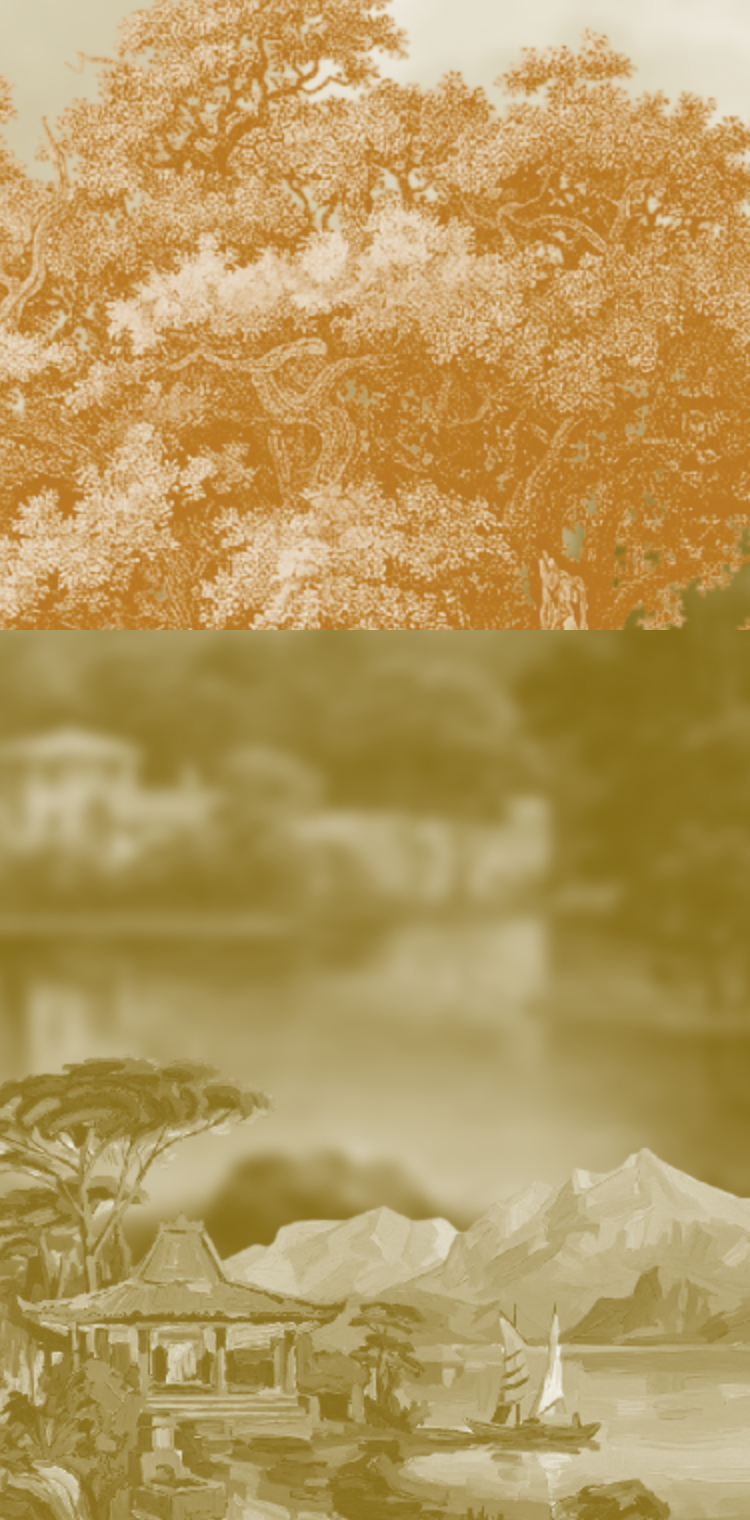
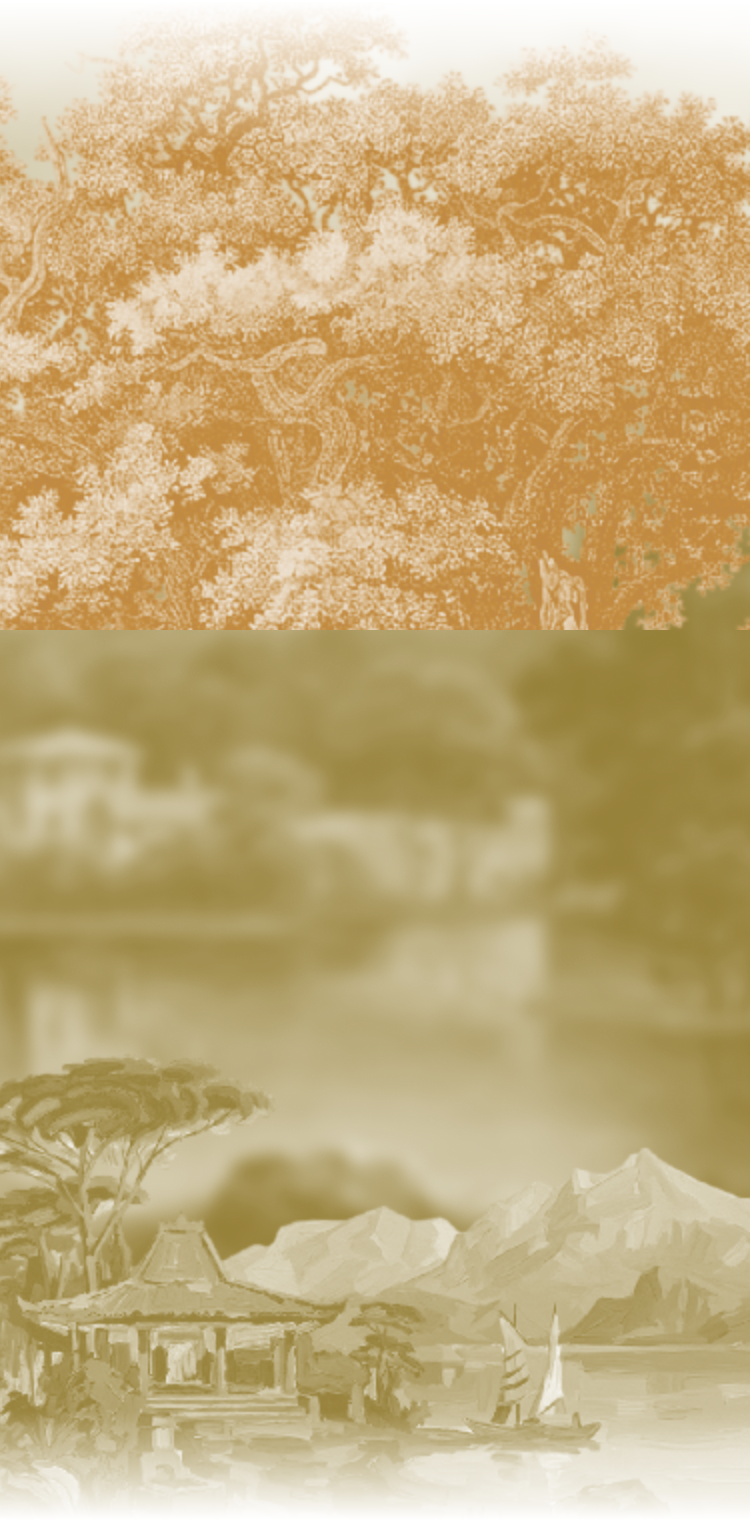
fix: merge bride floral wreath into one layer; feather save-date bg edges

diff --git a/src/components/invite/BrideSection.vue b/src/components/invite/BrideSection.vue
@@ -1,8 +1,7 @@
 <script setup lang="ts">
 // Per-asset bride section (Allysa). Every element its own layer — nothing baked.
 import bg from "../../assets/invite/bride/parts/bg.png";
-import florL from "../../assets/invite/bride/parts/florL.png";
-import florR from "../../assets/invite/bride/parts/florR.png";
+import flor from "../../assets/invite/bride/parts/flor.png";
 import portrait from "../../assets/invite/bride/parts/portrait.png";
 import amp from "../../assets/invite/bride/parts/amp.png";
 import divider from "../../assets/invite/bride/parts/divider.png";
@@ -14,8 +13,7 @@ defineExpose({ el });
 // full-frame layers (band 375×925) — placed inset:0, pixel-exact by construction
 const layers = [
   { src: bg, cls: "b-bg" },
-  { src: florL, cls: "b-florL" },
-  { src: florR, cls: "b-florR" },
+  { src: flor, cls: "b-flor" },
   { src: portrait, cls: "b-portrait" },
 ];
 </script>
@@ -69,11 +67,10 @@ const layers = [
   will-change: transform, opacity;
 }
 
-/* z-order back → front — florals behind the portrait so the palm never covers her face */
+/* z-order back → front — one cohesive floral wreath behind the portrait (never cut/torn) */
 .b-bg { z-index: 0; }
-.b-florL { z-index: 1; }
-.b-florR { z-index: 2; }
-.b-portrait { z-index: 3; }
+.b-flor { z-index: 1; }
+.b-portrait { z-index: 2; }
 
 /* --- ornate "&" ampersand, top-center (the design's calligraphic glyph, no frame) --- */
 .bride__amp {
@@ -134,8 +131,7 @@ const layers = [
 
 /* ===== lebay, varied per-asset entrances, gated on scroll-in ===== */
 .bride.shown .b-bg { animation: bFade 1.7s ease 0.05s both, bDrift 26s ease-in-out 2s infinite alternate; }
-.bride.shown .b-florL { transform-origin: 0 45%; animation: bFlyL 1.7s cubic-bezier(0.34,1.56,0.64,1) 0.9s both, bSwayA 8s ease-in-out 3.2s infinite alternate; }
-.bride.shown .b-florR { transform-origin: 100% 45%; animation: bFlyR 1.7s cubic-bezier(0.34,1.56,0.64,1) 1.05s both, bSwayB 8.6s ease-in-out 3.5s infinite alternate; }
+.bride.shown .b-flor { transform-origin: 50% 100%; animation: bBloom 1.8s cubic-bezier(0.16,1,0.3,1) 0.9s both, bSwayA 9s ease-in-out 3.4s infinite alternate; }
 .bride.shown .b-portrait { transform-origin: 50% 100%; animation: bRisePortrait 1.6s cubic-bezier(0.16,1,0.3,1) 0.5s both, bFloat 11s ease-in-out 3s infinite alternate; }
 
 .bride.shown .b-amp { animation: bAmp 1.2s cubic-bezier(0.16,1,0.3,1) 0.3s both; }
@@ -150,8 +146,7 @@ const layers = [
 @keyframes bDrift { from { transform: scale(1) translateY(0); } to { transform: scale(1.04) translateY(-1%); } }
 @keyframes bRisePortrait { 0% { opacity: 0; transform: translateY(12%) scale(0.94); filter: blur(4px); } 100% { opacity: 1; transform: translateY(0) scale(1); filter: blur(0); } }
 @keyframes bFloat { from { transform: translateY(0); } to { transform: translateY(-1.2%); } }
-@keyframes bFlyL { 0% { opacity: 0; transform: translateX(-55%) rotate(-12deg) scale(1.05); } 100% { opacity: 1; transform: translateX(0) rotate(0) scale(1); } }
-@keyframes bFlyR { 0% { opacity: 0; transform: translateX(55%) rotate(12deg) scale(1.05); } 100% { opacity: 1; transform: translateX(0) rotate(0) scale(1); } }
+@keyframes bBloom { 0% { opacity: 0; transform: translateY(6%) scale(1.06); } 100% { opacity: 1; transform: translateY(0) scale(1); } }
 @keyframes bAmp { 0% { opacity: 0; transform: scale(0.8); } 100% { opacity: 1; transform: scale(1); } }
 @keyframes bName { 0% { opacity: 0; transform: translateY(30%) scale(0.85); filter: blur(4px); } 100% { opacity: 1; transform: translateY(0) scale(1); filter: blur(0); } }
 @keyframes bDiv { from { opacity: 0; transform: scaleX(0); } to { opacity: 1; transform: scaleX(1); } }
